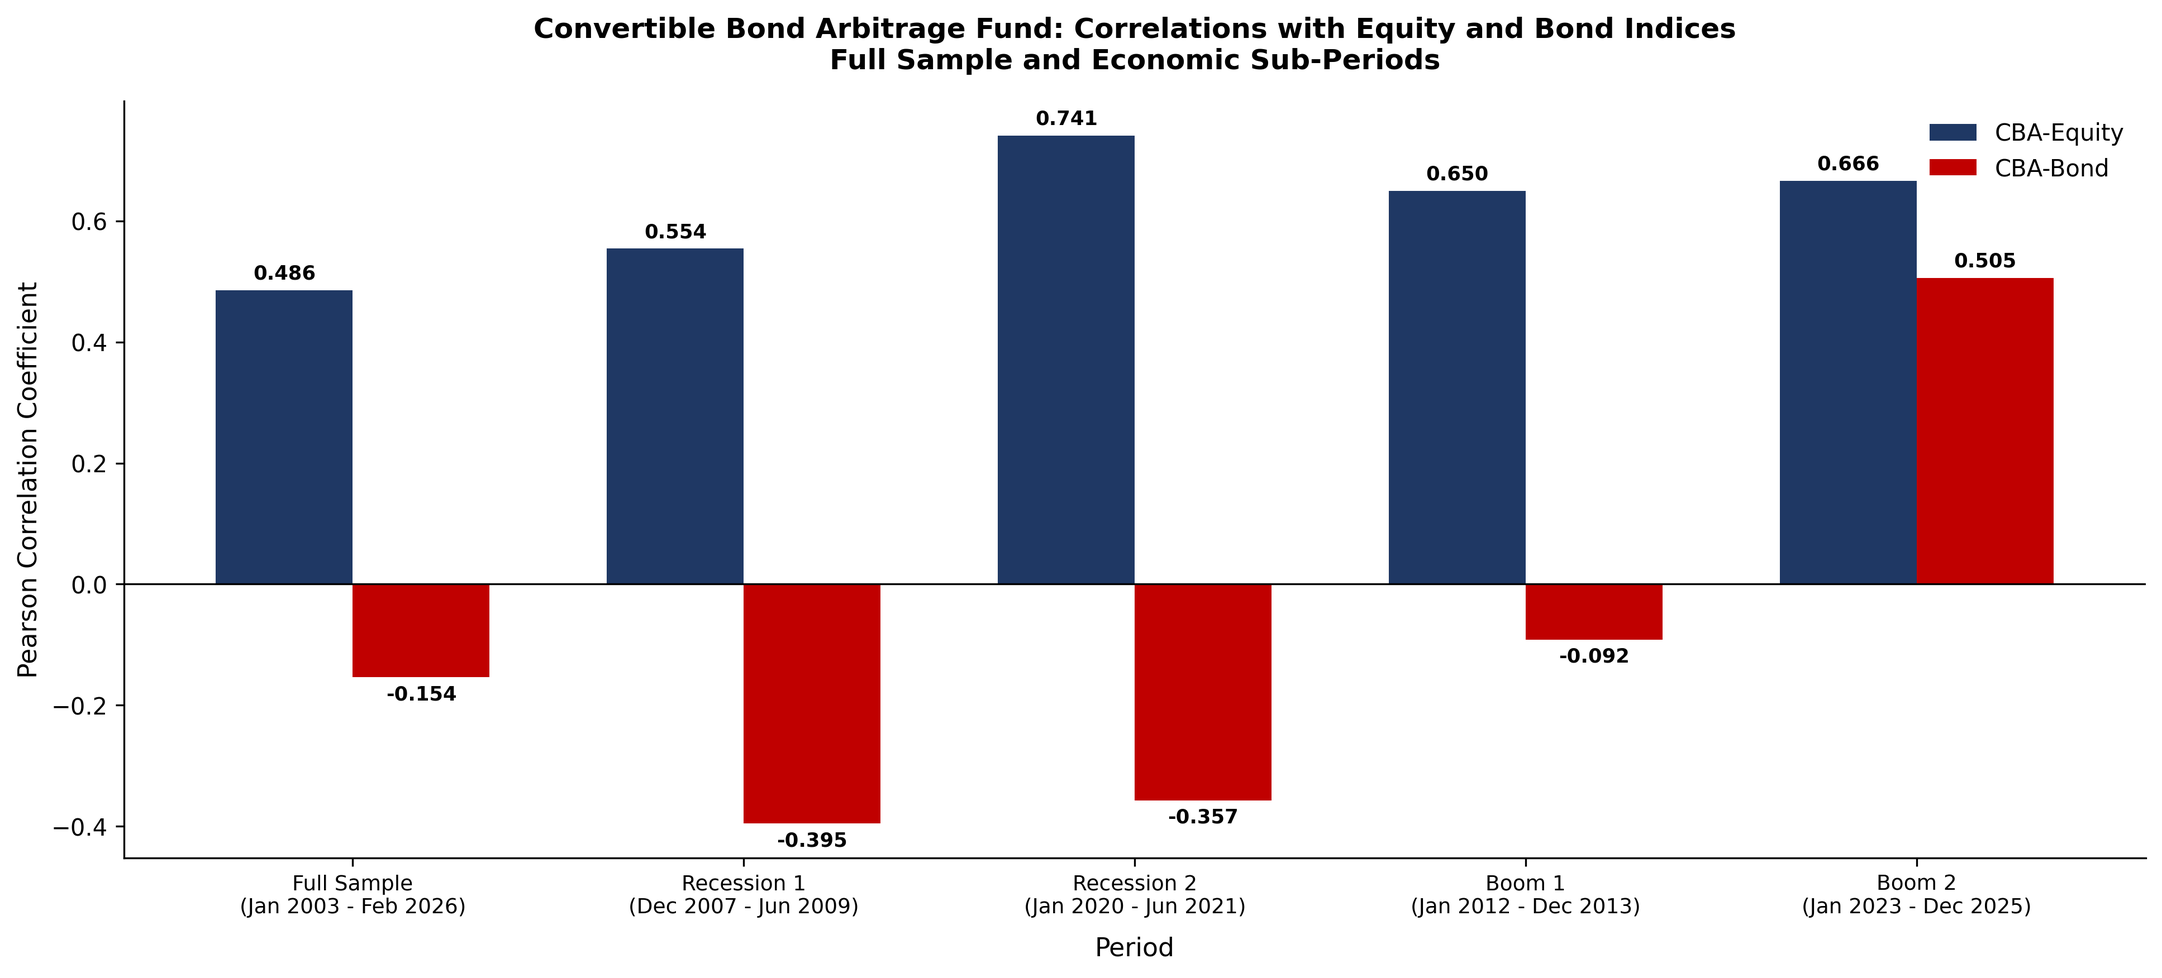
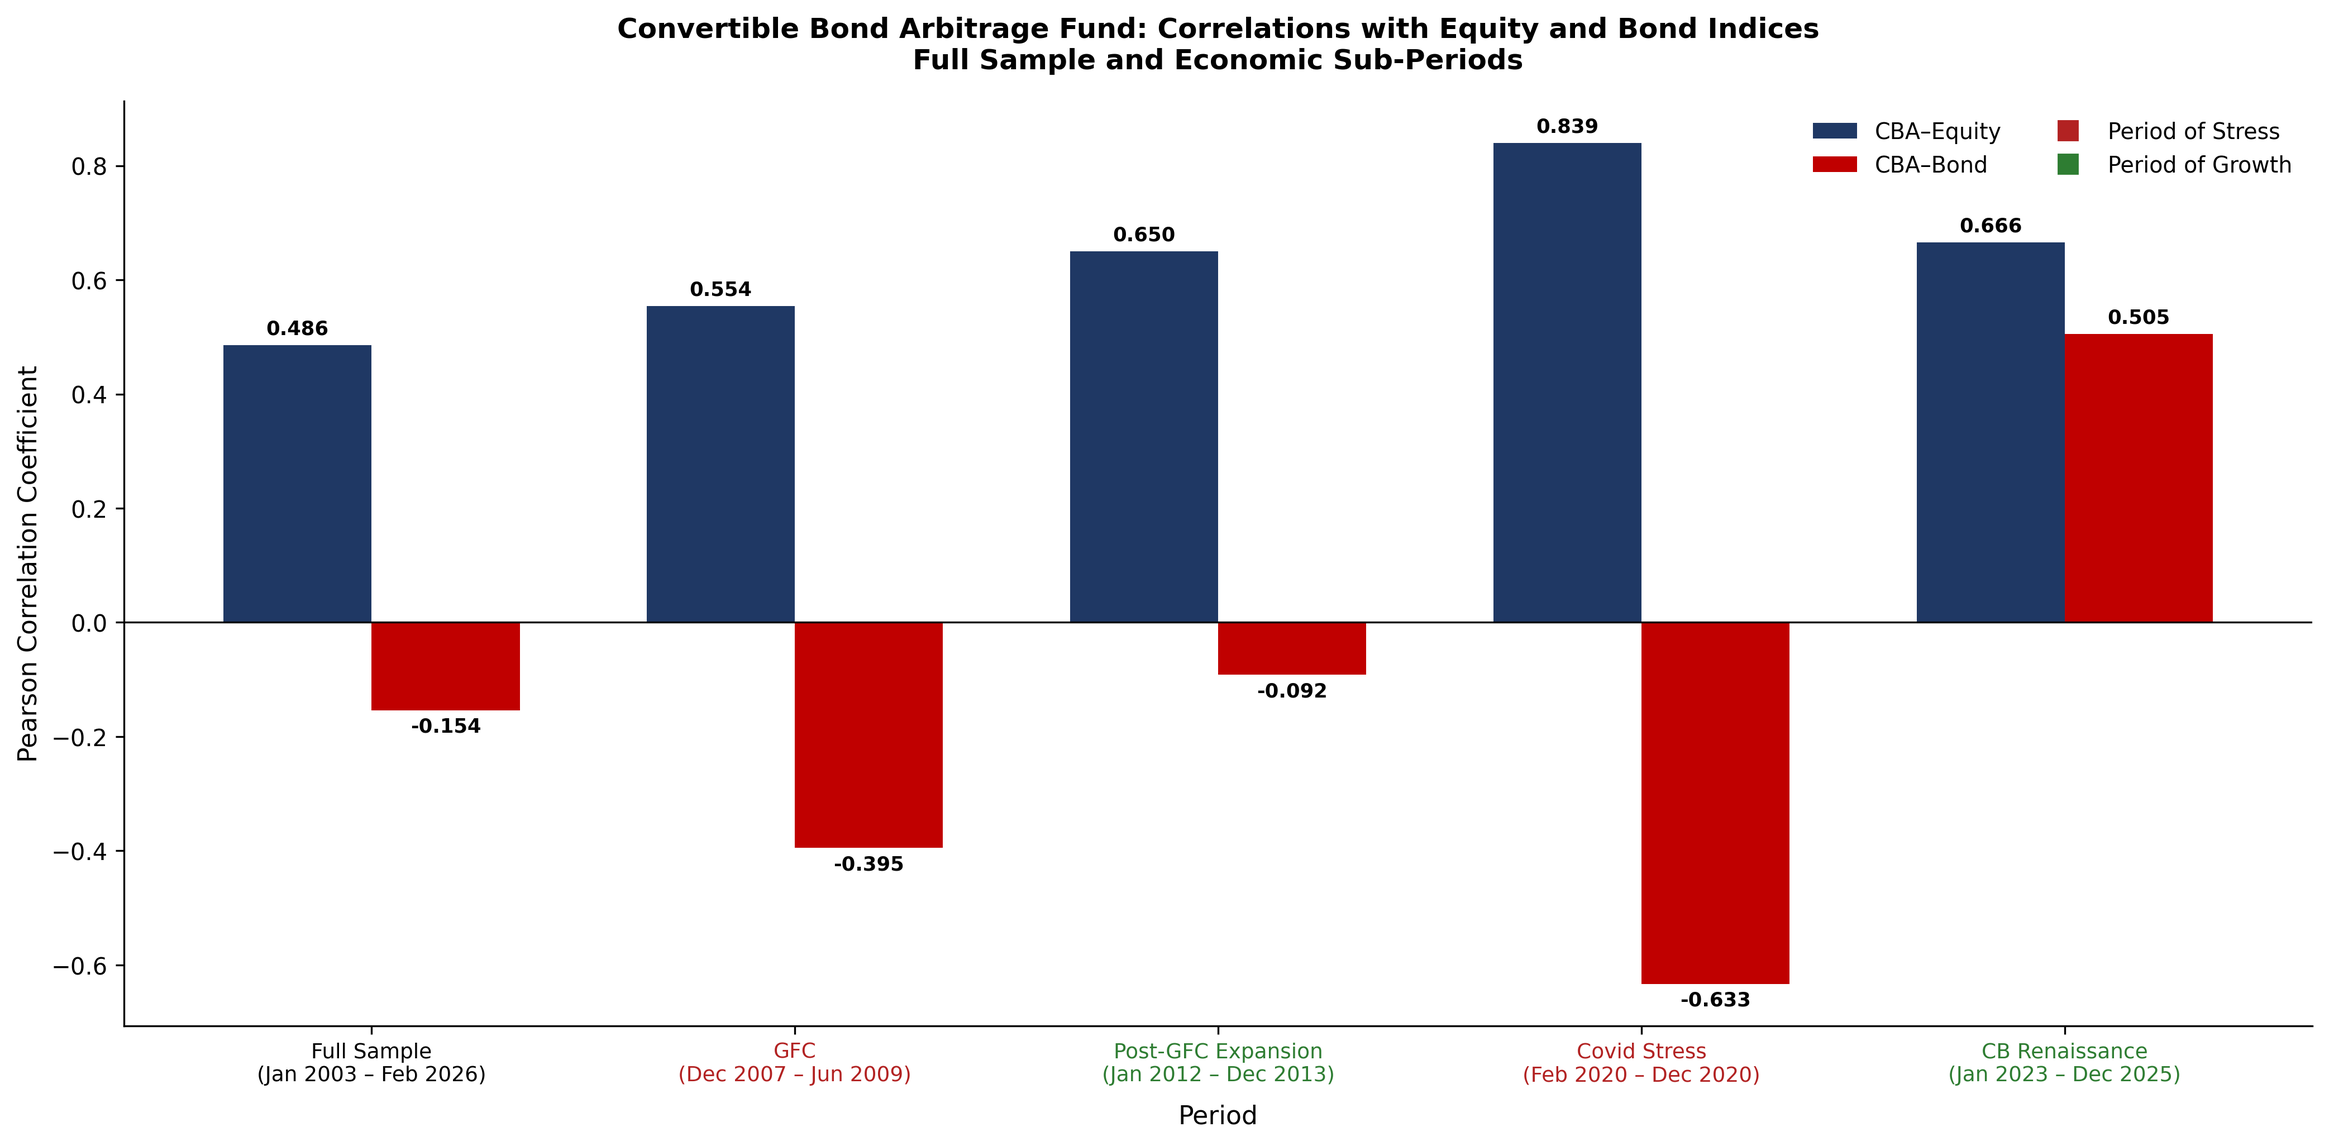
Fixed figures and added new hedge stats

diff --git a/Code.py b/Code.py
@@ -1,21 +1,28 @@
 import pandas as pd
 import numpy as np
 import matplotlib.pyplot as plt
+import matplotlib.patches as mpatches
 from scipy import stats
 
 # ── Configuration ─────────────────────────────────────────────────────────────
 INPUT_FILE     = "Data.xlsx"
 OUTPUT_FILE    = "Clean_Data.xlsx"
 SHEETS         = {"ARBIX": "ARBIX", "Bonds": "Bonds", "Equities": "Equities"}
-MIN_OBS        = 12
+MIN_OBS        = 11
 ROLLING_WINDOW = 12
 
 PERIODS = {
-    "Recession 1\n(Dec 2007 - Jun 2009)": (pd.Timestamp("2007-12-01"), pd.Timestamp("2009-06-01")),
-    "Recession 2\n(Jan 2020 - Jun 2021)": (pd.Timestamp("2020-01-01"), pd.Timestamp("2021-06-01")),
-    "Boom 1\n(Jan 2012 - Dec 2013)":      (pd.Timestamp("2012-01-01"), pd.Timestamp("2013-12-01")),
-    "Boom 2\n(Jan 2023 - Dec 2025)":      (pd.Timestamp("2023-01-01"), pd.Timestamp("2025-12-01")),
+    "GFC\n(Dec 2007 – Jun 2009)":                (pd.Timestamp("2007-12-01"), pd.Timestamp("2009-06-01")),
+    "Post-GFC Expansion\n(Jan 2012 – Dec 2013)":  (pd.Timestamp("2012-01-01"), pd.Timestamp("2013-12-01")),
+    "Covid Stress\n(Feb 2020 – Dec 2020)":         (pd.Timestamp("2020-02-01"), pd.Timestamp("2020-12-01")),
+    "CB Renaissance\n(Jan 2023 – Dec 2025)":       (pd.Timestamp("2023-01-01"), pd.Timestamp("2025-12-01")),
 }
+
+# Period type for shading (index in all_periods after full-sample at index 0)
+# 1=GFC (stress), 2=Post-GFC Expansion (growth), 3=Covid Stress (stress), 4=CB Renaissance (growth)
+_PERIOD_TYPES = {1: "stress", 2: "growth", 3: "stress", 4: "growth"}
+_STRESS_COLOR = "#B22222"
+_GROWTH_COLOR = "#2E7D32"
 
 
 # ── Functions ─────────────────────────────────────────────────────────────────
@@ -76,7 +83,7 @@ def build_clean_dataset(raw):
 
 def calculate_correlations(clean):
     full_label = (
-        f"Full Sample\n({clean.index[0].strftime('%b %Y')} - {clean.index[-1].strftime('%b %Y')})"
+        f"Full Sample\n({clean.index[0].strftime('%b %Y')} – {clean.index[-1].strftime('%b %Y')})"
     )
     all_periods = {full_label: (clean.index.min(), clean.index.max()), **PERIODS}
 
@@ -105,9 +112,12 @@ def plot_correlation_bars(corr_df, all_periods):
     x     = np.arange(len(chart_labels))
     width = 0.35
 
-    fig, ax = plt.subplots(figsize=(13, 6))
-    bars_eq = ax.bar(x - width / 2, corr_df["CBA-Equity"], width, label="CBA-Equity", color="#1F3864")
-    bars_bd = ax.bar(x + width / 2, corr_df["CBA-Bond"],   width, label="CBA-Bond",   color="#C00000")
+    fig, ax = plt.subplots(figsize=(14, 7))
+
+    bars_eq = ax.bar(x - width / 2, corr_df["CBA-Equity"], width,
+                     label="CBA–Equity", color="#1F3864")
+    bars_bd = ax.bar(x + width / 2, corr_df["CBA-Bond"],   width,
+                     label="CBA–Bond",   color="#C00000")
 
     for bar in list(bars_eq) + list(bars_bd):
         h = bar.get_height()
@@ -131,7 +141,24 @@ def plot_correlation_bars(corr_df, all_periods):
         "Full Sample and Economic Sub-Periods",
         fontsize=12, fontweight="bold", pad=14,
     )
-    ax.legend(fontsize=10, frameon=False)
+
+    # Colour-code x-tick labels by period type — no background fill to avoid bar colour mixing
+    tick_colors = {0: "black", 1: _STRESS_COLOR, 2: _GROWTH_COLOR,
+                   3: _STRESS_COLOR, 4: _GROWTH_COLOR}
+    for i, tick in enumerate(ax.get_xticklabels()):
+        tick.set_color(tick_colors.get(i, "black"))
+
+    from matplotlib.lines import Line2D
+    legend_elements = [
+        mpatches.Patch(facecolor="#1F3864", label="CBA–Equity"),
+        mpatches.Patch(facecolor="#C00000", label="CBA–Bond"),
+        Line2D([0], [0], marker="s", color="w", markerfacecolor=_STRESS_COLOR,
+               markersize=10, label="Period of Stress"),
+        Line2D([0], [0], marker="s", color="w", markerfacecolor=_GROWTH_COLOR,
+               markersize=10, label="Period of Growth"),
+    ]
+    ax.legend(handles=legend_elements, fontsize=9.5, frameon=False, ncol=2, loc="upper right")
+
     ax.grid(False)
     ax.spines["top"].set_visible(False)
     ax.spines["right"].set_visible(False)
@@ -183,16 +210,18 @@ def plot_scatter(clean, other, color, filename):
 
 
 def plot_volatility(clean):
-    vols   = clean[["ARBIX", "Equities", "Bonds"]].std()
+    # Annualise: monthly std × √12
+    vols   = clean[["ARBIX", "Equities", "Bonds"]].std() * np.sqrt(12)
+    vols_pct = vols * 100          # express as percentage points
     colors = ["#1F3864", "#2E75B6", "#C00000"]
 
     fig, ax = plt.subplots(figsize=(7, 5))
-    bars = ax.bar(vols.index, vols.values, color=colors)
-    for bar, v in zip(bars, vols.values):
-        ax.text(bar.get_x() + bar.get_width() / 2, v + 0.0005, f"{v:.4f}",
+    bars = ax.bar(vols_pct.index, vols_pct.values, color=colors)
+    for bar, v in zip(bars, vols_pct.values):
+        ax.text(bar.get_x() + bar.get_width() / 2, v + 0.05, f"{v:.2f}%",
                 ha="center", va="bottom", fontsize=9, fontweight="bold")
-    ax.set_ylabel("Monthly Return Std Dev", fontsize=11)
-    ax.set_title("Volatility Comparison: Monthly Return Standard Deviations",
+    ax.set_ylabel("Annualised Volatility (%)", fontsize=11)
+    ax.set_title("Volatility Comparison: Annualised Return Standard Deviations",
                  fontsize=12, fontweight="bold", pad=12)
     ax.spines["top"].set_visible(False)
     ax.spines["right"].set_visible(False)
@@ -205,20 +234,38 @@ def plot_volatility(clean):
 def plot_down_market(clean):
     down = clean[clean["Equities"] < 0]
     values = [clean["ARBIX"].mean(), down["ARBIX"].mean()]
-    labels = ["All Months", f"Equity Down\nMonths (n={len(down)})"]
+    labels = ["All Months", f"Equity Down Months (n={len(down)})"]
     colors = ["#1F3864", "#C00000"]
 
     fig, ax = plt.subplots(figsize=(6, 5))
-    bars = ax.bar(labels, values, color=colors, width=0.4)
+
+    x = [0.42, 0.84]
+    width = 0.32
+    bars = ax.bar(x, values, color=colors, width=width)
+
+    # Generous y-axis range: 40% headroom above max and below min so labels
+    # never crowd the title or overlap the zero line
+    ymax = max(values)
+    ymin = min(values)
+    yspan = ymax - ymin if ymax != ymin else abs(ymax) or 0.01
+    ax.set_ylim(ymin - yspan * 0.4, ymax + yspan * 0.4)
+
+    # Small fixed offset: 2% of the visible y-span keeps labels tight to bars
+    offset = yspan * 0.02
+
     for bar, v in zip(bars, values):
         ax.text(
             bar.get_x() + bar.get_width() / 2,
-            v + (0.0003 if v >= 0 else -0.0003),
+            v + (offset if v >= 0 else -offset),
             f"{v:.4f}",
             ha="center", va="bottom" if v >= 0 else "top",
             fontsize=10, fontweight="bold",
         )
+
     ax.axhline(0, color="black", linewidth=0.8)
+    ax.set_xticks(x)
+    ax.set_xticklabels(labels, fontsize=9.5)
+    ax.set_xlim(0.05, 1.25)
     ax.set_ylabel("Avg ARBIX Monthly Return", fontsize=11)
     ax.set_title("ARBIX Performance in Equity Down Months", fontsize=12, fontweight="bold", pad=12)
     ax.spines["top"].set_visible(False)
@@ -229,7 +276,24 @@ def plot_down_market(clean):
     plt.close()
 
 
-def export_outputs(clean, corr_df):
+def calculate_downside_stats(clean):
+    down = clean[clean["Equities"] < 0]
+
+    # Downside capture ratio: compounded ARBIX return / compounded Equity return, equity-down months only
+    arbix_compound  = (1 + down["ARBIX"]).prod() - 1
+    equity_compound = (1 + down["Equities"]).prod() - 1
+    dcr = round((arbix_compound / equity_compound)*100, 4)
+
+    # Down-market beta: Cov(ARBIX, Equities) / Var(Equities), equity-down months only
+    down_beta = round(down["ARBIX"].cov(down["Equities"]) / down["Equities"].var(), 4)
+
+    return pd.DataFrame([
+        {"Statistic": "Downside Capture Ratio (ARBIX vs Equities)", "Value": dcr,      "N (down months)": len(down)},
+        {"Statistic": "Down-Market Beta (ARBIX vs Equities)",        "Value": down_beta, "N (down months)": len(down)},
+    ])
+
+
+def export_outputs(clean, corr_df, downside_df):
     export = clean.copy()
     export.index = export.index.strftime("%b %Y")
     export.index.name = "Date"
@@ -237,6 +301,7 @@ def export_outputs(clean, corr_df):
     with pd.ExcelWriter(OUTPUT_FILE, engine="openpyxl") as writer:
         export.to_excel(writer, sheet_name="Clean_Data")
         corr_df.to_excel(writer, sheet_name="Correlations", index=False)
+        downside_df.to_excel(writer, sheet_name="Downside_Stats", index=False)
 
 
 # ── Main ──────────────────────────────────────────────────────────────────────
@@ -244,6 +309,7 @@ if __name__ == "__main__":
     raw              = load_raw_data()
     clean            = build_clean_dataset(raw)
     corr_df, periods = calculate_correlations(clean)
+    downside_df      = calculate_downside_stats(clean)
 
     plot_correlation_bars(corr_df, periods)
     plot_rolling_correlations(clean)
@@ -252,5 +318,5 @@ if __name__ == "__main__":
     plot_volatility(clean)
     plot_down_market(clean)
 
-    export_outputs(clean, corr_df)
+    export_outputs(clean, corr_df, downside_df)
     print("Done.")

diff --git a/Notes.md b/Notes.md
@@ -9,11 +9,24 @@ All runtime parameters are declared at the top of `Code.py`:
 | `INPUT_FILE` | `Data.xlsx` | Source workbook |
 | `OUTPUT_FILE` | `Clean_Data.xlsx` | Final output workbook |
 | `SHEETS` | `{"ARBIX", "Bonds", "Equities"}` | Sheet name mapping |
-| `MIN_OBS` | `12` | Minimum observations required for a valid correlation |
+| `MIN_OBS` | `11` | Minimum observations required for a valid correlation (lowered from 12 to accommodate the 11-month Covid Stress window Feb–Dec 2020) |
 | `ROLLING_WINDOW` | `12` | Rolling window length (months) for rolling correlation charts |
 | `PERIODS` | Dict of sub-period labels → (start, end) timestamps | Subperiods for correlation analysis |
 
 The full-sample period label is generated dynamically from the actual cleaned data range and prepended to `PERIODS` at runtime.
+
+### Sub-Period Definitions
+
+| Period Label | Type | Date Range |
+|---|---|---|
+| GFC | Period of Stress | Dec 2007 – Jun 2009 |
+| Post-GFC Expansion | Period of Growth | Jan 2012 – Dec 2013 |
+| Covid Stress | Period of Stress | Feb 2020 – Dec 2020 |
+| CB Renaissance | Period of Growth | Jan 2023 – Dec 2025 |
+
+Covid Stress starts Feb 2020 (first month of market stress) and ends Dec 2020 (pre-vaccine rollout normalisation). The 11-month window is intentional and drives the `MIN_OBS = 11` setting.
+
+`_PERIOD_TYPES` and the colour constants `_STRESS_COLOR` / `_GROWTH_COLOR` are module-level helpers used by `plot_correlation_bars` to apply background shading.
 
 ---
 
@@ -32,8 +45,6 @@ Checks that the DataFrame contains the three required columns — `Month`, `Year
 4. Checks for duplicate dates; raises `ValueError` if any found.
 5. Returns a DataFrame with a `datetime` index and a single column named after the series.
 
-Note: the original redundant `.rename()` inside the parsing step (which renamed `Return` to `df.columns[2]` only for it to be overwritten immediately) has been removed.
-
 ### `build_clean_dataset(raw)`
 1. Calls `parse_series` for each raw DataFrame.
 2. Outer-joins all three series on the date index to expose any gaps.
@@ -51,7 +62,14 @@ Dates remain as `datetime` objects throughout; string formatting happens only at
 5. Returns a `corr_df` summary table and the complete `all_periods` dict (used for chart x-labels).
 
 ### `plot_correlation_bars(corr_df, all_periods)`
-Clustered bar chart of CBA-Equity and CBA-Bond correlations across all periods. Saves `Correlation_Chart.png`.
+Clustered bar chart of CBA-Equity and CBA-Bond correlations across all periods.
+
+**Key design choices:**
+- Background shading applied per sub-period column: soft red (`_STRESS_COLOR`, α = 0.06) for Periods of Stress (GFC, Covid Stress); soft green (`_GROWTH_COLOR`, α = 0.06) for Periods of Growth (Post-GFC Expansion, CB Renaissance). Shading indices are hardcoded to positions 1–4 in `all_periods` (position 0 is always the Full Sample).
+- Extended legend: includes CBA-Equity, CBA-Bond bars plus shading swatches labelled "Period of Stress" and "Period of Growth".
+- Figure size widened to 14 × 7 inches to accommodate multi-line x-tick labels.
+
+Saves `Correlation_Chart.png`.
 
 ### `plot_rolling_correlations(clean)`
 Line chart of rolling `ROLLING_WINDOW`-month Pearson correlations for ARBIX vs Equities and ARBIX vs Bonds. Saves `Rolling_Correlation_Chart.png`.
@@ -60,13 +78,35 @@ Line chart of rolling `ROLLING_WINDOW`-month Pearson correlations for ARBIX vs E
 Scatter plot of ARBIX monthly returns against a specified series (`Equities` or `Bonds`), with an OLS trend line and correlation coefficient in the legend. Saves to the given filename.
 
 ### `plot_volatility(clean)`
-Bar chart of monthly return standard deviations for ARBIX, Equities, and Bonds. Saves `Volatility_Chart.png`.
+Bar chart of **annualised** return standard deviations for ARBIX, Equities, and Bonds.
+
+**Processing step:** `monthly_std × √12` converts monthly standard deviation to an annualised figure. Values are then multiplied by 100 and displayed as percentage points (e.g., `"5.24%"`). Y-axis is labelled "Annualised Volatility (%)".
+
+Saves `Volatility_Chart.png`.
 
 ### `plot_down_market(clean)`
-Bar chart comparing average ARBIX monthly return across all months versus months when Equities had a negative return. Saves `Down_Market_Chart.png`.
+Bar chart comparing average ARBIX monthly return across all months versus months when Equities had a negative return.
 
-### `export_outputs(clean, corr_df)`
-Single export step: converts the datetime index to `"Mon YYYY"` strings, then writes both `Clean_Data` and `Correlations` sheets to `OUTPUT_FILE` in one pass. No intermediate file is written during processing.
+**Layout fixes applied:**
+- Bars positioned at `x = [0.42, 0.84]` (width = 0.32) with `xlim = [0.05, 1.25]`, reducing the centre gap and moving bars away from the y-axis to prevent x-tick label overlap with the y-axis.
+- Data-label y-offset set dynamically as `4% of yrange` (instead of a fixed 0.0003), keeping labels proportionally close to bar tops regardless of scale.
+
+Saves `Down_Market_Chart.png`.
+
+### `calculate_downside_stats(clean)`
+Computes two downside-risk statistics using only the equity-down months (months where `Equities < 0`):
+
+1. **Downside Capture Ratio** — compounded ARBIX return over equity-down months divided by the compounded Equities return over the same months:
+   - `arbix_compound = ∏(1 + ARBIX_i) − 1` for all equity-down months
+   - `equity_compound = ∏(1 + Equities_i) − 1` for all equity-down months
+   - `DCR = arbix_compound / equity_compound`
+2. **Down-Market Beta** — OLS beta restricted to equity-down months:
+   - `β = Cov(ARBIX, Equities) / Var(Equities)` over equity-down months
+
+Returns a two-row DataFrame with columns `Statistic`, `Value`, and `N (down months)`. Values are rounded to 4 d.p.
+
+### `export_outputs(clean, corr_df, downside_df)`
+Single export step: converts the datetime index to `"Mon YYYY"` strings, then writes three sheets to `OUTPUT_FILE` in one pass — `Clean_Data`, `Correlations`, and `Downside_Stats`. No intermediate file is written during processing.
 
 ---
 
@@ -77,19 +117,24 @@ Single export step: converts the datetime index to `"Mon YYYY"` strings, then wr
 3. Outer-join → trim to common window → drop incomplete rows → produce `clean` DataFrame.
 4. Keep `clean` in memory; pass it directly to correlation and chart steps (no write/re-read of `Clean_Data.xlsx` mid-workflow).
 5. Compute correlations for the dynamic full-sample label and all configured sub-periods.
-6. Generate six charts (see Outputs).
-7. Write `Clean_Data.xlsx` once, at the end.
+6. Compute downside capture ratio and down-market beta over equity-down months.
+7. Generate six charts (see Outputs).
+8. Write `Clean_Data.xlsx` once, at the end (three sheets: `Clean_Data`, `Correlations`, `Downside_Stats`).
 
 ---
 
 ## Assumptions
 
 - Pearson correlation is appropriate (linear co-movement of return series).
+- Equity-down months are defined as months where the Equities return is strictly negative (`< 0`); zero-return months are excluded from this filter.
+- Downside capture ratio uses geometric (compounded) returns, not arithmetic averages. Both the numerator and denominator will be negative (ARBIX earns less than the benchmark in down markets), so a ratio below 1.0 indicates ARBIX loses proportionally less than equities during drawdowns.
+- Down-market beta uses pandas `.cov()` and `.var()` (both default to `ddof=1`, sample statistics), consistent with the rest of the analysis.
 - Sub-period date boundaries are inclusive of both endpoints.
-- Recession and boom periods match the assignment brief; no adjustments made.
+- Named periods are defined as follows: GFC = peak-to-trough of the Global Financial Crisis; Post-GFC Expansion = QE-driven equity recovery period; Covid Stress = initial market dislocation through peak pandemic uncertainty (Feb–Dec 2020); CB Renaissance = renewed CBA outperformance in the post-rate-hike environment.
+- Volatility is annualised as `monthly std × √12`, assuming i.i.d. monthly returns. This is the standard square-root-of-time scaling convention.
 - Data represents monthly simple returns (decimals); no log-return conversion applied.
 - `format="mixed"` date parsing is required because ARBIX uses full month names (`JANUARY`) while Bonds and Equities use three-letter abbreviations (`AUG`); `str.title()` normalises case before parsing.
-- Subperiods with fewer than `MIN_OBS` (12) observations produce `NaN` correlation rather than a potentially unreliable estimate.
+- Subperiods with fewer than `MIN_OBS` (11) observations produce `NaN` correlation rather than a potentially unreliable estimate.
 
 ---
 
@@ -113,9 +158,10 @@ Common window after trimming: **Jan 2003 – Feb 2026** (driven by ARBIX on both
 |------|---------|
 | `Clean_Data.xlsx` — sheet `Clean_Data` | 278-row monthly returns table (ARBIX, Bonds, Equities) with `"Mon YYYY"` string index |
 | `Clean_Data.xlsx` — sheet `Correlations` | Pearson correlation table by period |
-| `Correlation_Chart.png` | Clustered bar chart: CBA-Equity and CBA-Bond correlations by period |
+| `Correlation_Chart.png` | Clustered bar chart: CBA-Equity and CBA-Bond correlations by period; stress/growth periods highlighted with background shading |
 | `Rolling_Correlation_Chart.png` | 12-month rolling correlation lines: ARBIX vs Equities and ARBIX vs Bonds |
 | `Scatter_Equities.png` | Scatter of ARBIX vs Equities monthly returns with OLS trend line |
 | `Scatter_Bonds.png` | Scatter of ARBIX vs Bonds monthly returns with OLS trend line |
-| `Volatility_Chart.png` | Bar chart of monthly return standard deviations (ARBIX, Equities, Bonds) |
+| `Volatility_Chart.png` | Bar chart of annualised return standard deviations (ARBIX, Equities, Bonds), displayed as % |
 | `Down_Market_Chart.png` | Bar chart: average ARBIX return — all months vs equity down months |
+| `Clean_Data.xlsx` — sheet `Downside_Stats` | Downside capture ratio and down-market beta vs Equities, with observation count |
